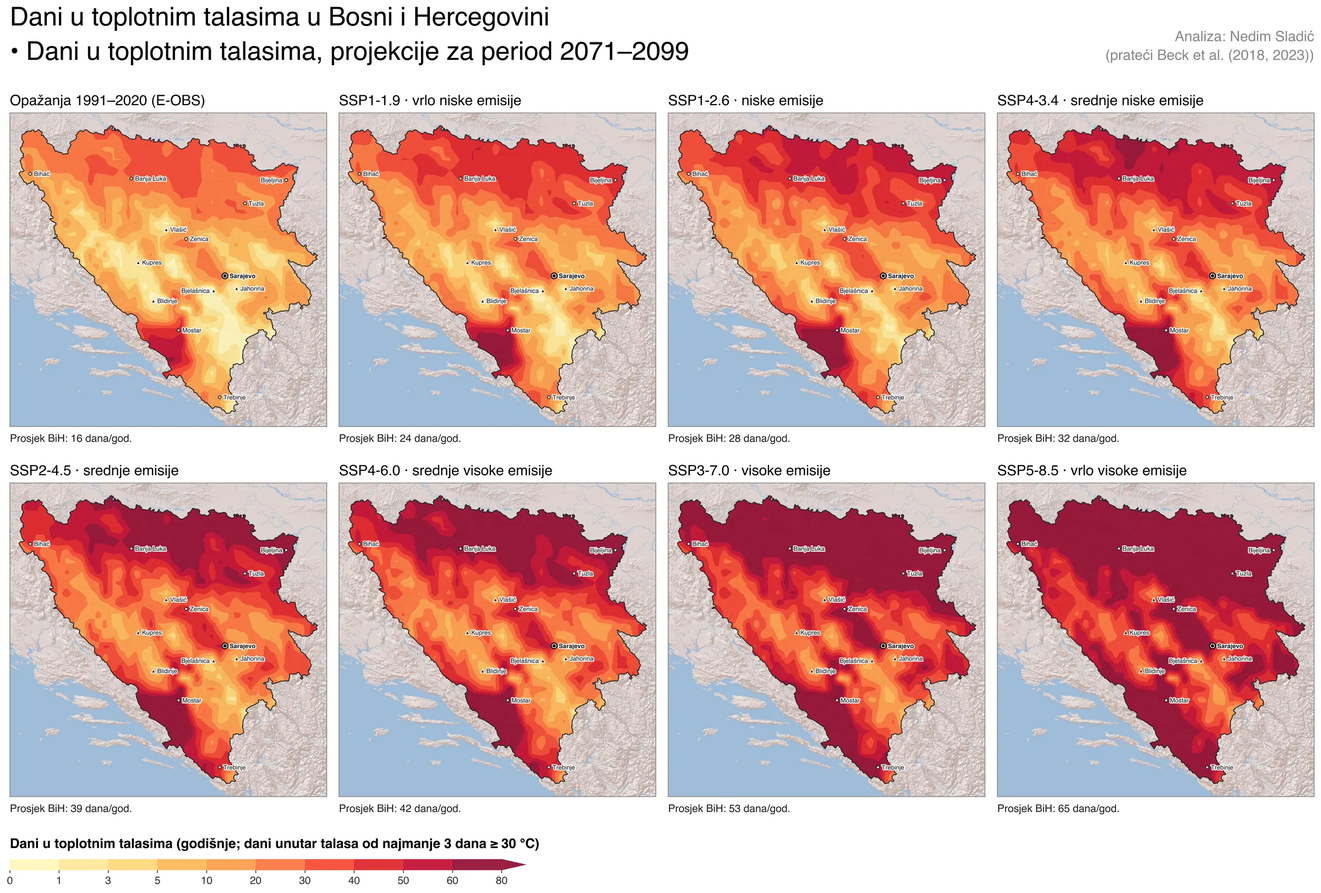
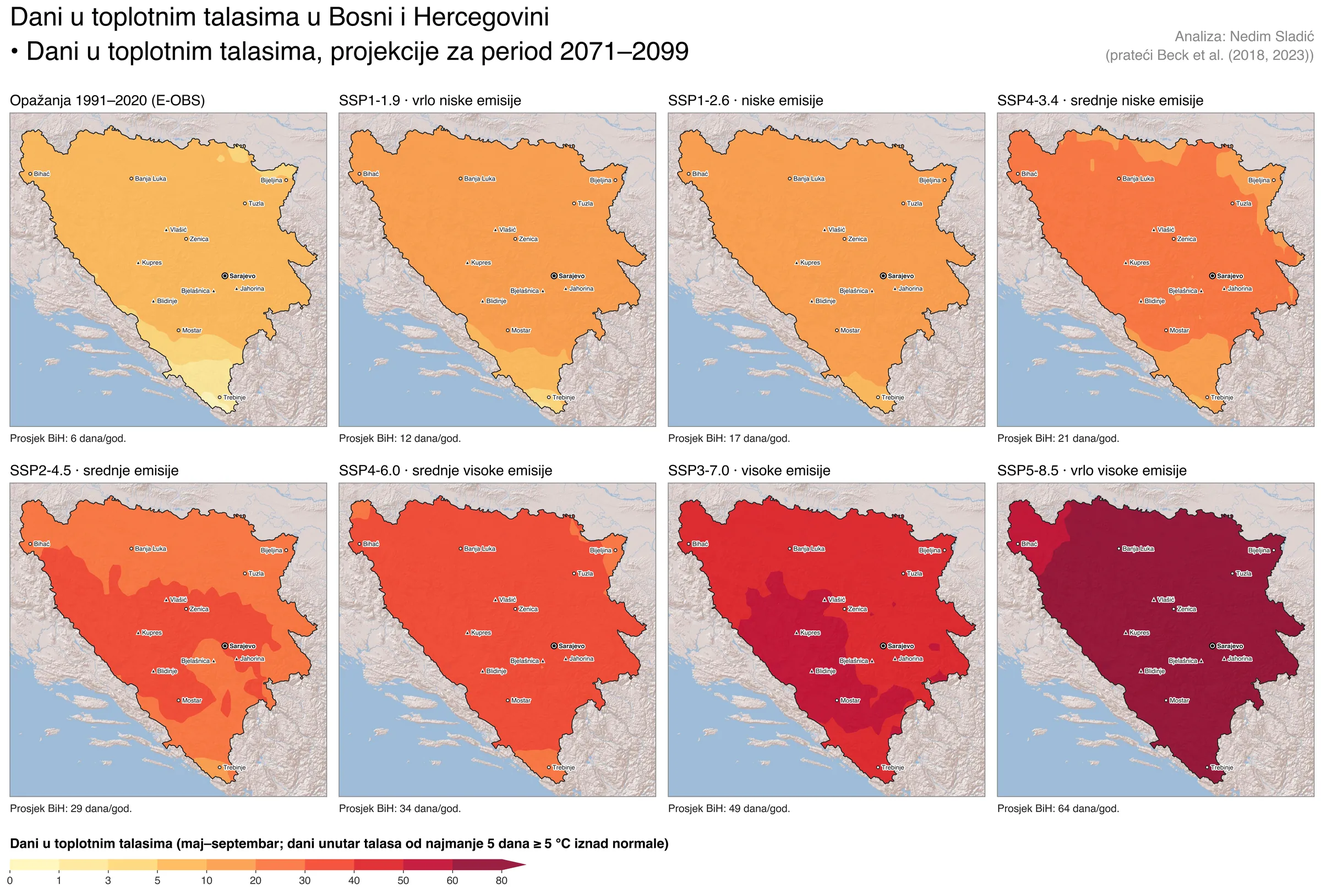
Toplotni talas: najmanje 5 dana zaredom 5 °C iznad normale, maj–septembar

diff --git a/index.html b/index.html
@@ -695,12 +695,18 @@ footer strong { font: 700 1.15rem/1.4 var(--f-display); color: var(--ink); displ
     <div class="head text">
       <p class="label"><span class="bs">Najmanje 3 dana ≥ 30 °C</span><span class="en">At least 3 days ≥ 30 °C</span></p>
       <h2><span class="bs">Toplotni <em>talasi</em></span><span class="en">Heat<em>waves</em></span></h2>
-      <p class="bs">Toplotni talas je niz od najmanje tri uzastopna dana s najvišom temperaturom od 30 °C ili više. U periodu 1991–2020 BiH je
-        u prosjeku imala 2,8 talasa i 16 dana u talasima godišnje, a najduži talas u godini trajao je 6 dana. Do 2071–2099 bilo bi to
-        28 dana i 10 dana najdužeg talasa prema SSP1-2.6, odnosno 65 dana i 24 dana prema SSP5-8.5.</p>
-      <p class="en">A heatwave is a run of at least three consecutive days with a maximum of 30 °C or more. In 1991–2020 BiH averaged
-        2.8 heatwaves and 16 heatwave days a year, and the longest heatwave of the year lasted 6 days. By 2071–2099 that would be
-        28 days and a 10-day longest heatwave under SSP1-2.6, or 65 days and 24 days under SSP5-8.5.</p>
+      <p class="bs">Toplotni talas je niz od najmanje pet uzastopnih dana u kojima je najviša dnevna temperatura za 5 °C ili više iznad
+        prosjeka za taj dan u godini. Prosjek (normala) je najviša dnevna temperatura u periodu 1991–2020, a broje se talasi koji počinju od
+        maja do septembra. U periodu 1991–2020 BiH je imala oko jedan takav talas i 6 dana u talasima godišnje. Do 2041–2070 bilo bi
+        16 dana prema SSP1-2.6 i 30 dana prema SSP5-8.5, a do 2071–2099 17 dana prema SSP1-2.6 i 64 dana prema SSP5-8.5. Najduži talas
+        u godini produžio bi se s 4 na 8 (SSP1-2.6) ili 18 dana (SSP5-8.5). Pošto se prag računa u odnosu na normalu svakog mjesta,
+        razlike između gradova su male: i Mostar i Sarajevo dobijaju talase podjednako često.</p>
+      <p class="en">A heatwave is a run of at least five consecutive days with a maximum temperature 5 °C or more above the average for
+        that day of the year. The average (normal) is the daily maximum temperature in 1991–2020, and waves starting from May to September
+        are counted. In 1991–2020 BiH had about one such wave and 6 heatwave days a year. By 2041–2070 that would be 16 days under SSP1-2.6
+        and 30 days under SSP5-8.5, and by 2071–2099 17 days under SSP1-2.6 and 64 days under SSP5-8.5. The longest wave of the year would
+        grow from 4 to 8 (SSP1-2.6) or 18 days (SSP5-8.5). Because the threshold is relative to each place's own normal, differences between
+        cities are small: Mostar and Sarajevo get heatwaves about equally often.</p>
     </div>
     <figure><a class="plate" href="#" data-src="img/talasi_prosjek_bih.webp" data-cap="Toplotni talasi: prosjek BiH">
       <img src="img/talasi_prosjek_bih.webp" alt="Broj toplotnih talasa, dani u talasima i najduži talas 1901–2099" loading="lazy"></a></figure>
@@ -1182,6 +1188,13 @@ footer strong { font: 700 1.15rem/1.4 var(--f-display); color: var(--ink); displ
           padavinama: padavine ≥ 1 mm i Tsr ≤ 0 °C, decembar–mart, za ćeliju od oko 10 km na lokaciji planinskog centra (vrhovi su hladniji).</span>
           <span class="en">Growing season per the ETCCDI definition (GSL); Huglin index with the latitude day-length factor; snowfall days: precipitation
           ≥ 1 mm and Tmean ≤ 0 °C, December–March, for the ~10 km cell at each mountain centre (summits are colder).</span></dd></div>
+      <div><dt><span class="bs">Toplotni talasi</span><span class="en">Heatwaves</span></dt>
+        <dd><span class="bs">Najmanje 5 uzastopnih dana s najvišom temperaturom za 5 °C ili više iznad normale za taj kalendarski dan
+          (prosjek 1991–2020 iz E-OBS, izglađen na 5 dana); broje se talasi koji počinju od maja do septembra. Normala je ista za sve periode,
+          a buduće dnevne temperature dobijene su delta metodom.</span>
+          <span class="en">At least 5 consecutive days with a maximum temperature 5 °C or more above the normal for that calendar day
+          (1991–2020 mean from E-OBS, smoothed over 5 days); waves starting from May to September are counted. The normal is the same for all
+          periods, and future daily temperatures come from the delta method.</span></dd></div>
       <div><dt><span class="bs">Zimsko hlađenje, ekstremne padavine i kulture</span><span class="en">Winter chill, extreme rainfall and crops</span></dt>
         <dd><span class="bs">Sati hlađenja po Weinbergeru (0–7,2 °C, novembar–februar), satne temperature iz dnevnog minimuma i maksimuma (kosinusna
           interpolacija). Rx1day i Rx5day (ETCCDI); druga procjena množi dnevne padavine s 1,07 po °C zagrijavanja u odnosu na 1991–2020.

diff --git a/kod/toplotni_talasi_bih.py b/kod/toplotni_talasi_bih.py
@@ -1,5 +1,8 @@
 """
-Toplotni talasi u BiH (1901–2099): niz od najmanje 3 uzastopna dana s najvišom temperaturom ≥ 30 °C.
+Toplotni talasi u BiH (1901–2099): niz od najmanje 5 uzastopnih dana u kojima je najviša dnevna temperatura
+za 5 °C ili više iznad prosjeka (normale) za taj dan u godini. Normala: prosjek najviše dnevne temperature
+1991–2020 (E-OBS) za svaki kalendarski dan, izglađen pomičnim prosjekom od 5 dana.
+Broje se talasi koji počinju od maja do septembra (cijelom dužinom).
 
 Ista "delta change" metoda kao dani_bih.py (E-OBS 1991–2020 + mjesečna promjena iz Beck et al. 2023).
 Pokazatelji (godišnje, prosjek 30 godina):
@@ -28,7 +31,8 @@ from bih_stil import (Bih, HIST, FUT, REF, SSP, SSP_COLORS, SSP_DASH, CITIES, PE
 EOBS, CLIM, BOUNDARY, OUT = sys.argv[1:5]
 B = Bih(BOUNDARY, OUT)
 BOX = dict(lon=(15.3, 20.0), lat=(42.2, 45.6))
-MINLEN, THR = 3, 30.0
+MINLEN, DT = 5, 5.0
+SEASON = (4, 8)                                   # mjeseci 0-indeksirano: maj–septembar
 
 parts = []
 for f in sorted(glob.glob(os.path.join(EOBS, "tx_ens_mean_0.1deg_reg_*_v31.0e.nc"))):
@@ -49,6 +53,13 @@ MONTH = TX["time"].dt.month.values - 1
 YEAR = TX["time"].dt.year.values
 YEARS = np.unique(YEAR)
 tx = TX.values
+# normala najviše temperature za svaki dan u godini (1991–2020), 29. februar = 28. februar
+DOY = TX["time"].dt.dayofyear.values - 1
+leap = TX["time"].dt.is_leap_year.values
+DOY = np.where(leap & (DOY >= 59), DOY - 1, DOY)              # 0..364
+norm = np.stack([np.nanmean(tx[DOY == d], axis=0) for d in range(365)])
+norm = np.mean([np.roll(norm, k, axis=0) for k in (-2, -1, 0, 1, 2)], axis=0)   # 5-dnevni prosjek
+THR = norm[DOY] + DT                                            # prag za svaki dan (t, y, x)
 
 
 def clim(p, s):
@@ -64,14 +75,16 @@ KEYS = [(p, None) for p in HIST] + [(p, s) for p in FUT for s in SSP]
 
 def waves(key):
     d = np.zeros((12,) + tx.shape[1:]) if key == (REF, None) else clim(*key) - T_REF
-    hot = (tx + d[MONTH]) >= THR                          # (t, y, x)
+    hot = (tx + d[MONTH]) >= THR                          # (t, y, x); normala ostaje 1991–2020
     n_ev = np.zeros(tx.shape[1:]); n_day = np.zeros(tx.shape[1:]); longest = np.zeros(tx.shape[1:])
     for yr in YEARS:
-        h = hot[YEAR == yr]
-        run = np.zeros(h.shape[1:]); ymax = np.zeros(h.shape[1:])
+        h = hot[YEAR == yr]; mo = MONTH[YEAR == yr]
+        run = np.zeros(h.shape[1:]); ymax = np.zeros(h.shape[1:]); start = np.zeros(h.shape[1:], bool)
         for t in range(h.shape[0] + 1):
             cur = h[t] if t < h.shape[0] else np.zeros(h.shape[1:], bool)
-            ended = (~cur) & (run >= MINLEN)
+            if t < h.shape[0]:                                  # talas se broji ako počne u sezoni (maj–septembar)
+                start = np.where(cur & (run == 0), SEASON[0] <= mo[t] <= SEASON[1], start)
+            ended = (~cur) & (run >= MINLEN) & start
             n_ev += ended; n_day += np.where(ended, run, 0)
             ymax = np.maximum(ymax, np.where(ended, run, 0))
             run = np.where(cur, run + 1, 0)
@@ -90,11 +103,11 @@ def bmean(a):
 
 
 IND = {
-    "broj": ("Broj toplotnih talasa", "godišnje; talas = najmanje 3 uzastopna dana ≥ 30 °C", "talasa/god.",
+    "broj": ("Broj toplotnih talasa", "maj–septembar; talas = najmanje 5 uzastopnih dana ≥ 5 °C iznad normale", "talasa/god.",
              [0, 0.2, 0.5, 1, 2, 3, 4, 5, 6, 8, 10], "{:.1f}"),
-    "dani": ("Dani u toplotnim talasima", "godišnje; dani unutar talasa od najmanje 3 dana ≥ 30 °C", "dana/god.",
+    "dani": ("Dani u toplotnim talasima", "maj–septembar; dani unutar talasa od najmanje 5 dana ≥ 5 °C iznad normale", "dana/god.",
              [0, 1, 3, 5, 10, 20, 30, 40, 50, 60, 80], "{:.0f}"),
-    "najduzi": ("Najduži toplotni talas", "prosjek najdužeg niza dana ≥ 30 °C u godini (samo nizovi ≥ 3 dana)", "dana",
+    "najduzi": ("Najduži toplotni talas", "maj–septembar; prosjek najdužeg niza dana ≥ 5 °C iznad normale (nizovi ≥ 5 dana)", "dana",
                 [0, 1, 2, 3, 5, 7, 10, 15, 20, 25, 30], "{:.0f}"),
 }
 
@@ -153,7 +166,7 @@ x0 = axes[0].get_position().x0 - 0.035
 fig.legend(handles=hs, loc="lower left", ncol=4, frameon=False, fontsize=12, bbox_to_anchor=(x0, 0.0),
            title="Period / scenarij", title_fontproperties={"weight": "bold", "size": 13}, alignment="left")
 fig.text(x0, 0.95, "Toplotni talasi u Bosni i Hercegovini", fontsize=27, ha="left", va="baseline")
-fig.text(x0, 0.885, "• Najmanje 3 uzastopna dana ≥ 30 °C, prosjek BiH (1901–2099)", fontsize=27,
+fig.text(x0, 0.885, "• Najmanje 5 dana zaredom ≥ 5 °C iznad normale (maj–sep), prosjek BiH", fontsize=27,
          ha="left", va="baseline")
 B.put_credit(fig, fig.transFigure, 0.98, 0.885, 15)
 fig.savefig(os.path.join(OUT, "talasi_prosjek_bih.png"), dpi=DPI, bbox_inches="tight")
@@ -196,7 +209,7 @@ for ax, k in zip(axes, ["dani", "najduzi"]):
 axes[0].set_yticks(range(len(places))); axes[0].set_yticklabels(places, fontsize=12.5)
 fig.subplots_adjust(left=0.075, right=0.99, top=0.8, bottom=0.02, wspace=0.06)
 fig.text(0.01, 0.955, "Toplotni talasi u gradovima BiH", fontsize=27, ha="left", va="baseline")
-fig.text(0.01, 0.91, "• Dani u talasima i najduži talas godišnje", fontsize=27, ha="left", va="baseline")
+fig.text(0.01, 0.91, "• Dani u talasima i najduži talas, maj–septembar", fontsize=27, ha="left", va="baseline")
 B.put_credit(fig, fig.transFigure, 0.99, 0.91, 15)
 fig.savefig(os.path.join(OUT, "talasi_po_gradovima.png"), dpi=DPI, bbox_inches="tight")
 plt.close(fig)
